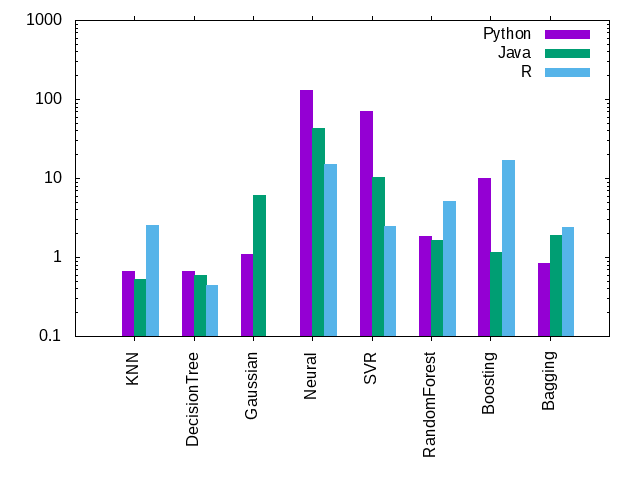
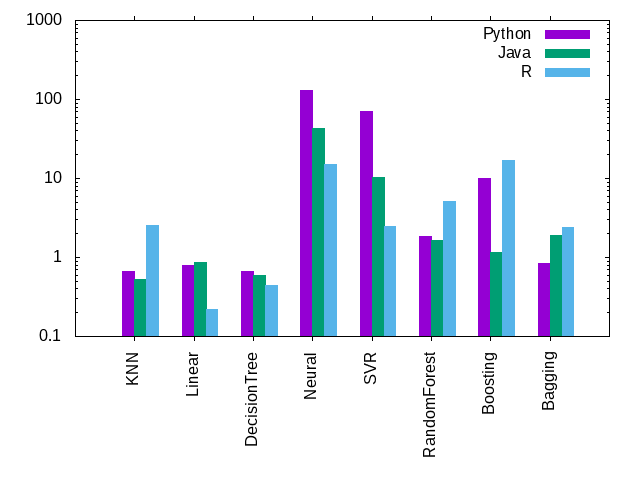
linear

diff --git a/scripts/java/gaussian.java b/scripts/java/gaussian.java
@@ -12,12 +12,10 @@ import java.io.File;
 import java.io.IOException;
 import weka.classifiers.Classifier;
 import weka.classifiers.Evaluation;
-import weka.classifiers.AbstractClassifier;
-import weka.classifiers.meta.AdaBoostM1;
-import weka.classifiers.meta.Bagging;
 import weka.classifiers.functions.GaussianProcesses;
 import weka.core.Instances;
 import weka.core.converters.ArffLoader;
+import weka.classifiers.functions.LinearRegression;
 
 /*
  * To change this license header, choose License Headers in Project Properties.
@@ -40,7 +38,7 @@ public class gaussian {
     train_data.setClassIndex(train_data.numAttributes() - 1);
     test_data.setClassIndex(test_data.numAttributes() - 1);
    
-    Classifier rf = new GaussianProcesses();
+    Classifier rf = new LinearRegression();
     rf.buildClassifier(train_data);
     Evaluation ev = new Evaluation(test_data);
     ev.evaluateModel(rf,test_data);

diff --git a/scripts/python/linear.py b/scripts/python/linear.py
@@ -1,14 +1,12 @@
 import numpy as np
 import pandas as pd
 import sys
+import time
 
 from math import sqrt
-from sklearn import ensemble
-from sklearn.model_selection import cross_val_score
-from sklearn.model_selection import KFold
 from sklearn.metrics import mean_squared_log_error
-from sklearn import gaussian_process
-from sklearn.metrics import mean_squared_error
+from sklearn import linear_model
+
 
 
 data = pd.read_csv('../../data/train_proc.csv',header=0)
@@ -20,7 +18,7 @@ test_x=data.iloc[-292:,:80]
 test_y=data.iloc[-292:,80]
 test_id=test.iloc[:,0]
 
-clf = gaussian_process.GaussianProcessRegressor()
+clf = linear_model.LinearRegression()
 pred = clf.fit(train_x,train_y).predict(test_x)
 
 print(clf.score(test_x,test_y),sqrt(mean_squared_log_error(test_y, pred)))
